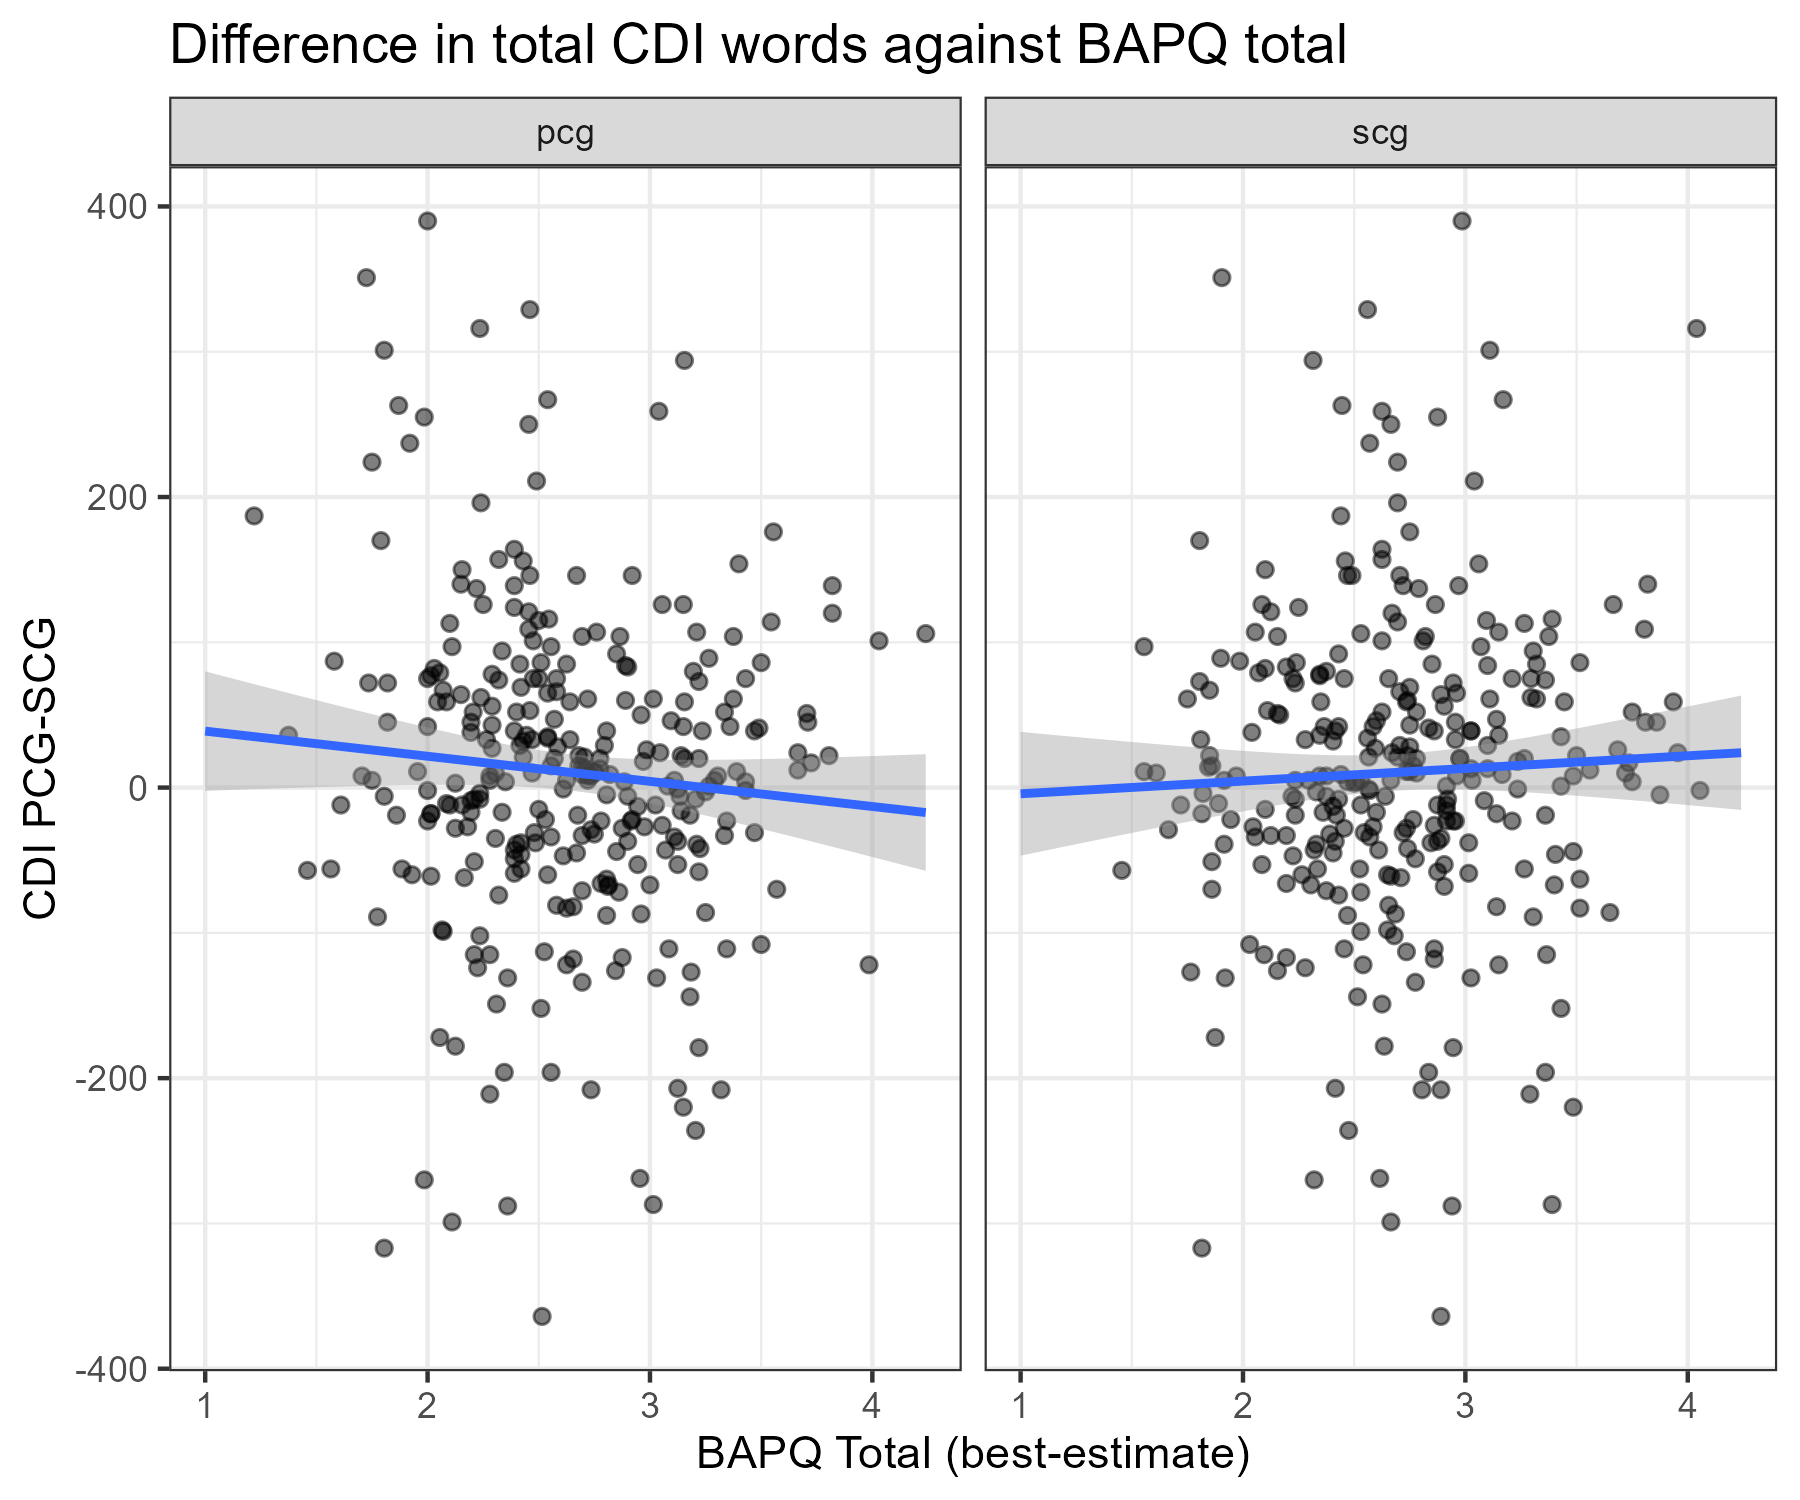
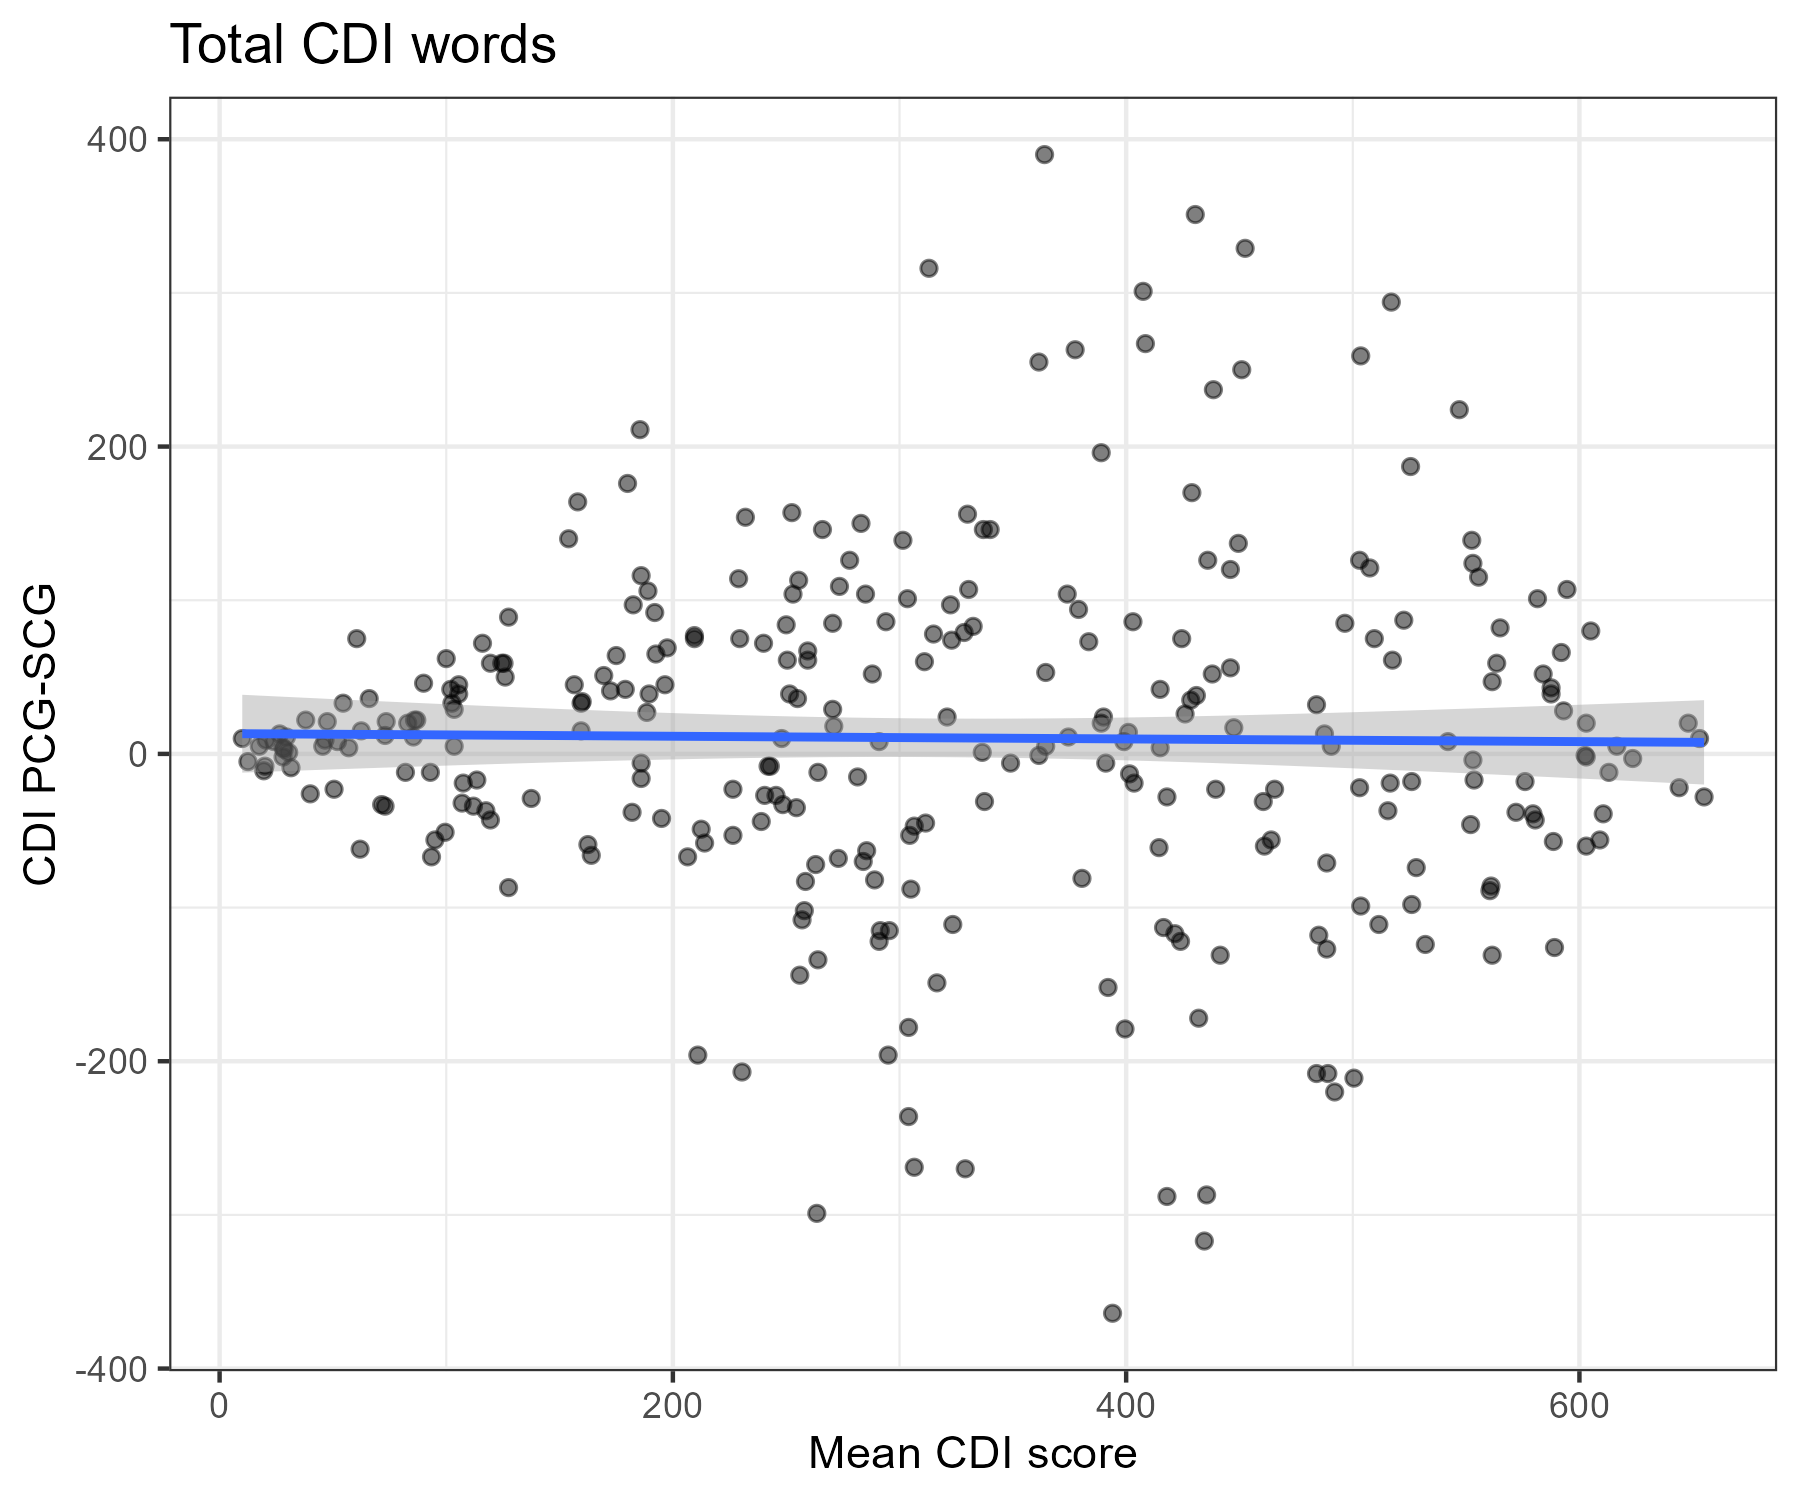
new changes for dpp resub

diff --git a/tex/cdi_pathdiagram.tex b/tex/cdi_pathdiagram.tex
@@ -205,7 +205,9 @@
 %        (p2tswc) ;
 %
 %        % bapq effects
-        \draw [arrow] (p1bapq) -- node[anchor=south] {\bapqpcg} (cdi1) ;
+        \draw [arrow,dashed] (p1bapq)
+            -- node[anchor=south] {\bapqpcg{}\ns{}}
+        (cdi1) ;
 %
         \draw [arrow,dashed] (p2bapq)
             -- node[anchor=north] {\bapqscg{}\ns{}}
